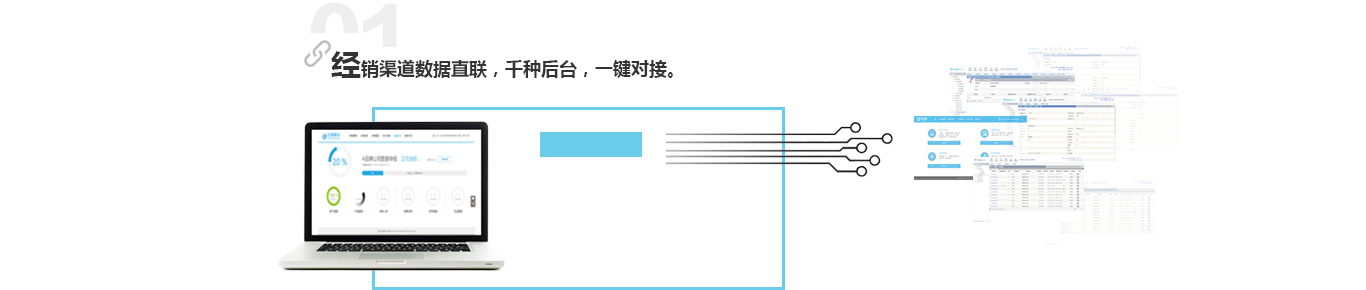
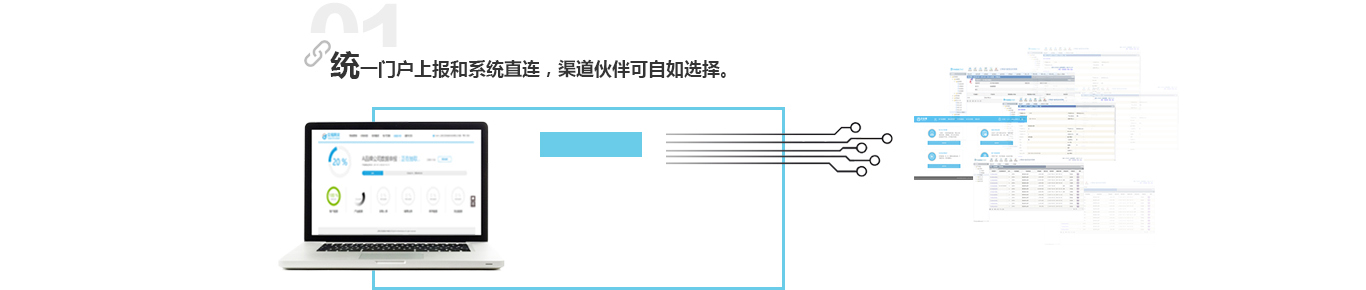
no message

Changed region(s): [[0.246, 0.1862, 0.5534, 0.2793]]

diff --git a/channel_sell.html b/channel_sell.html
@@ -152,15 +152,14 @@
     <div class="get-data">
         <h4><span>W</span>elink DMS 全渠道数据采集，根据不同渠道类型采用不同的方法。</h4>
     </div>
-    <div class="step1">
+    <div class="step1" style="margin-bottom: 18px;">
         <div class="middle">
-            <p>数据自动采集 </p>
-            <p>千种后台，一键对接。</p>
-            <p>
-                经销商渠道、KA渠道数据自动采集。基于文沥强大的数据网关集成功能，支持1000＋后台系统快速智能适配，正向传输反向调用双向支持，亚太区独家的数据互通安全性认证，自定义格式和全球EDI标准格式支持。
+            <p>&nbsp;&nbsp;&nbsp;&nbsp;完美统一 </p>
+            <!--<p>千种后台，一键对接。</p>-->
+            <p style="top: 193px;">
+                完美统一门户方式和自动化方式， 从第一天起，您就可以大规模启动，<br />快速见效。渠道伙伴根据自身情况自由选择上报方式。 
             </p>
-            <div class="bottom-tips">数据直连实现核心企业通过各种安全的技术手段（如ERP加速器、EDI、API等）<br>
-快速有效地获取渠道商家的经营性业务数据，并转换成核心企业统一规范的数据。</div>
+            <div class="bottom-tips" style="bottom: 19px;left: 13px;">协同门户支持直接上传模板，可根据不同后台系统的格式，将后台导出的数据直接上报，直接转换。同时提供自动化<br />客户端工具，实现自动导出和自动上传，减少渠道伙伴工作。实现核心企业通过各种安全的技术手段（如ERP加速器、<br />EDI、API等）快速有效地获取渠道商家的经营性业务数据，并转换成核心企业统一规范的数据。</div>
         </div>
     </div>
     <ul class="step2">
